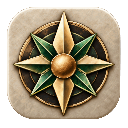
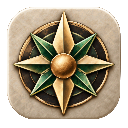
feat: adopt approved Aster v2 Kodi runtime assets

diff --git a/docs/projects/Aster-Home-Feasibility-PoC.md b/docs/projects/Aster-Home-Feasibility-PoC.md
@@ -365,6 +365,7 @@ Deliver: (1) software go/no-go decision, (2) hardware and live Canadian purchasi
 | 2026-10-14 | Replaced the hero's fixture-bound title/synopsis/artwork with focus-aware Kodi skin variables that read the selected item from either Jellyfin-backed home row. | Mac Kodi validation passed: moving between rows updates the hero to the selected title, real synopsis, year/duration and matching artwork (for example `227` and `Runner`) without placeholder copy. Playback/resume acceptance remains reserved for the LibreELEC endpoint. |
 | 2026-10-14 | Refined the dynamic hero synopsis for the Aster Home visual hierarchy: retained the selected item's live `Plot`, enabled multiline wrapping, added the local `font16` face, and constrained the synopsis surface to two lines. | Disposable Mac Kodi validation passed: the selected `227` item displays its real synopsis across two lines, with year metadata and Play/More Info controls remaining aligned below it. The `0.2.1` package remains a visual-shell milestone; physical playback/HDR/audio acceptance is still reserved for LibreELEC. |
 | 2026-10-14 | Reshaped the Aster Home canvas toward the supplied Home Hub reference: reduced the collapsed rail to an icon-first strip, moved the brand/greeting/eyebrow copy left, widened the dynamic hero artwork, converted both media rows to landscape cards, and added Kodi-safe charcoal caption overlays with live `ListItem.PercentPlayed` labels. | Disposable Mac Kodi validation passed: Jellyfin-backed title, synopsis, artwork and metadata still render dynamically while the page now presents the intended rail/hero/card hierarchy. SVG transparency was rejected after Kodi reported unsupported `image/svg`; the shipped overlay is therefore a repository-owned raster PNG with its SVG source retained. The `0.3.0` package remains visual-only pending LibreELEC playback validation. |
[1 lines of base64/hex data omitted]
 
 ## 15. References
 

diff --git a/services/kodi/skin.asterhome/README.md b/services/kodi/skin.asterhome/README.md
@@ -1,6 +1,9 @@
 # Aster Home Kodi skin prototype
 
-Version 0.3.0 reshapes the Kodi canvas around the Aster Home reference: narrow
+Version 0.4.0 adopts the owner-approved Aster v2 runtime exports, uses the
+approved horizontal logo and tile-free compass in the shell, makes the hero
+eyebrow/metadata/time dynamic, and gives focused media cards a stable mint
+focus surface without zooming their geometry. Version 0.3.0 reshapes the Kodi canvas around the Aster Home reference: narrow
 rail, greeting/eyebrow hero copy, wide dynamic artwork, landscape media cards,
 and dark caption overlays with live progress percentages. Version 0.2.1 adds a
 two-line dynamic synopsis treatment with a local font face.
@@ -40,11 +43,15 @@ recommendation data are connected.
 - Kodi video-library containers as temporary content sources
 - no production service writes and no Kodi core changes
 
-The Aster compass mark is supplied as user-owned artwork and is rasterized for
-Kodi as `media/aster-icon-128.png` and `media/aster-icon-512.png`. The source
-SVG is approximately 20 MB and is retained outside this add-on. It has no
-embedded copyright or licence metadata, so these textures remain internal
-Aster artwork until provenance and distribution rights are recorded.
+The artwork is sourced from the owner-approved private Forgejo release
+`aster-brand-v2-2026-10-14`, package SHA-256
[1 lines of base64/hex data omitted]
+The add-on carries only right-sized PNG exports: the 128/512 px Aster mark,
+horizontal and compass marks, and the approved Home Hub, Media, News Digest,
+Audiobooks and monochrome utility marks. The 20 MB SVG masters and the full
+family release remain outside this add-on. The handoff explicitly limits the
+family to private Aster/HomeLab use; this prototype does not assert public
+trademark, font or redistribution clearance.
 
 ## Local test
 
